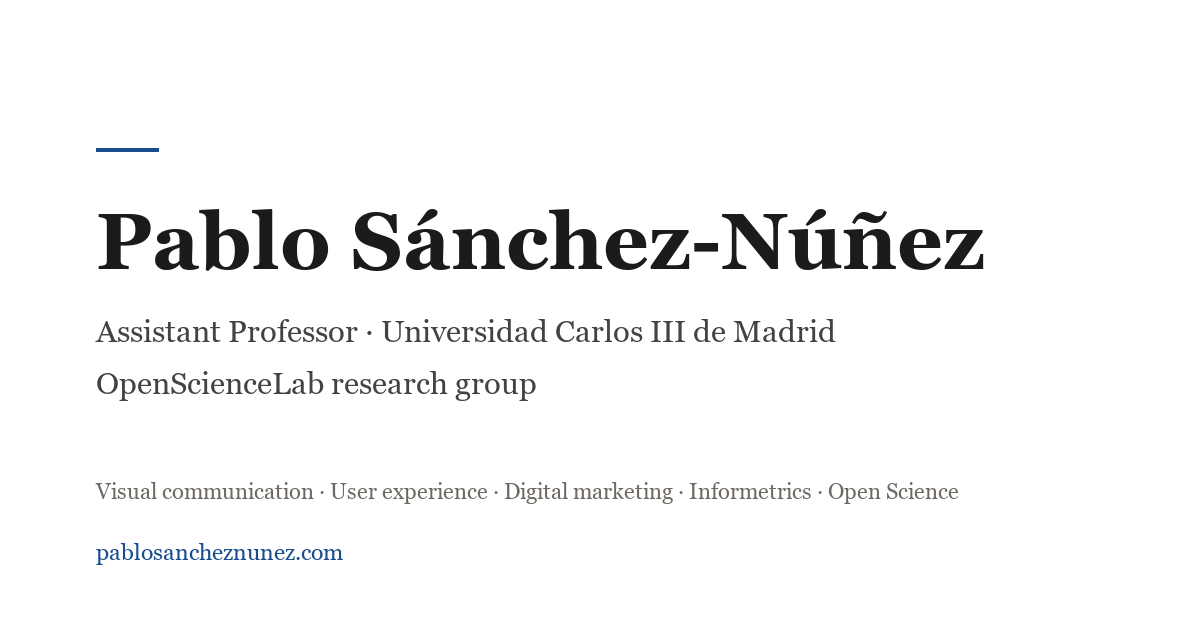
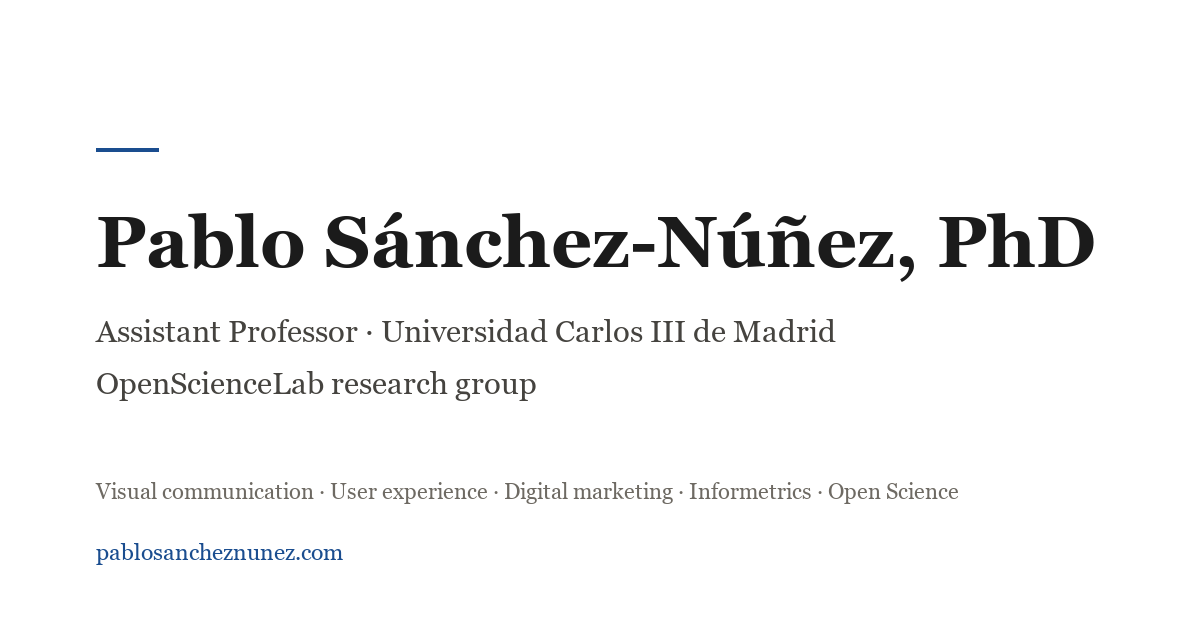
Add PhD to the name and mention research ecosystems in the bio

Changed region(s): [[0.0617, 0.3317, 0.925, 0.4524]]

diff --git a/index.html b/index.html
@@ -4,14 +4,14 @@ layout: default
 {%- assign gh = "https://github.com/" | append: site.author.github -%}
 {%- assign orcid = "https://orcid.org/" | append: site.author.orcid -%}
   <header class="masthead">
-    <h1>Pablo Sánchez-Núñez</h1>
+    <h1>Pablo Sánchez-Núñez, PhD</h1>
     <p class="role">Assistant Professor · <a href="https://opensciencelab.uc3m.es/">OpenScienceLab</a>, Library and Information Science Department, Universidad Carlos III de Madrid</p>
   </header>
 
   <main id="main">
 
     <section id="about">
-      <p class="lede">I'm a PhD in Communication, curious about how people really behave when they use digital products and services: what grabs their attention, how they decide, and why some experiences simply work better than others.</p>
+      <p class="lede">I'm interested in how people really behave when they use digital products and services: what grabs their attention, how they decide, and why some experiences simply work better than others. I'm just as curious about how science itself works, and how research ecosystems grow, connect and change over time.</p>
       <p>Outside academia I love travelling, meeting interesting people and learning something new every day. I make New Year's resolutions I never keep, always go out of my way for a good curry, and disappear into nature whenever I can.</p>
     </section>
 
